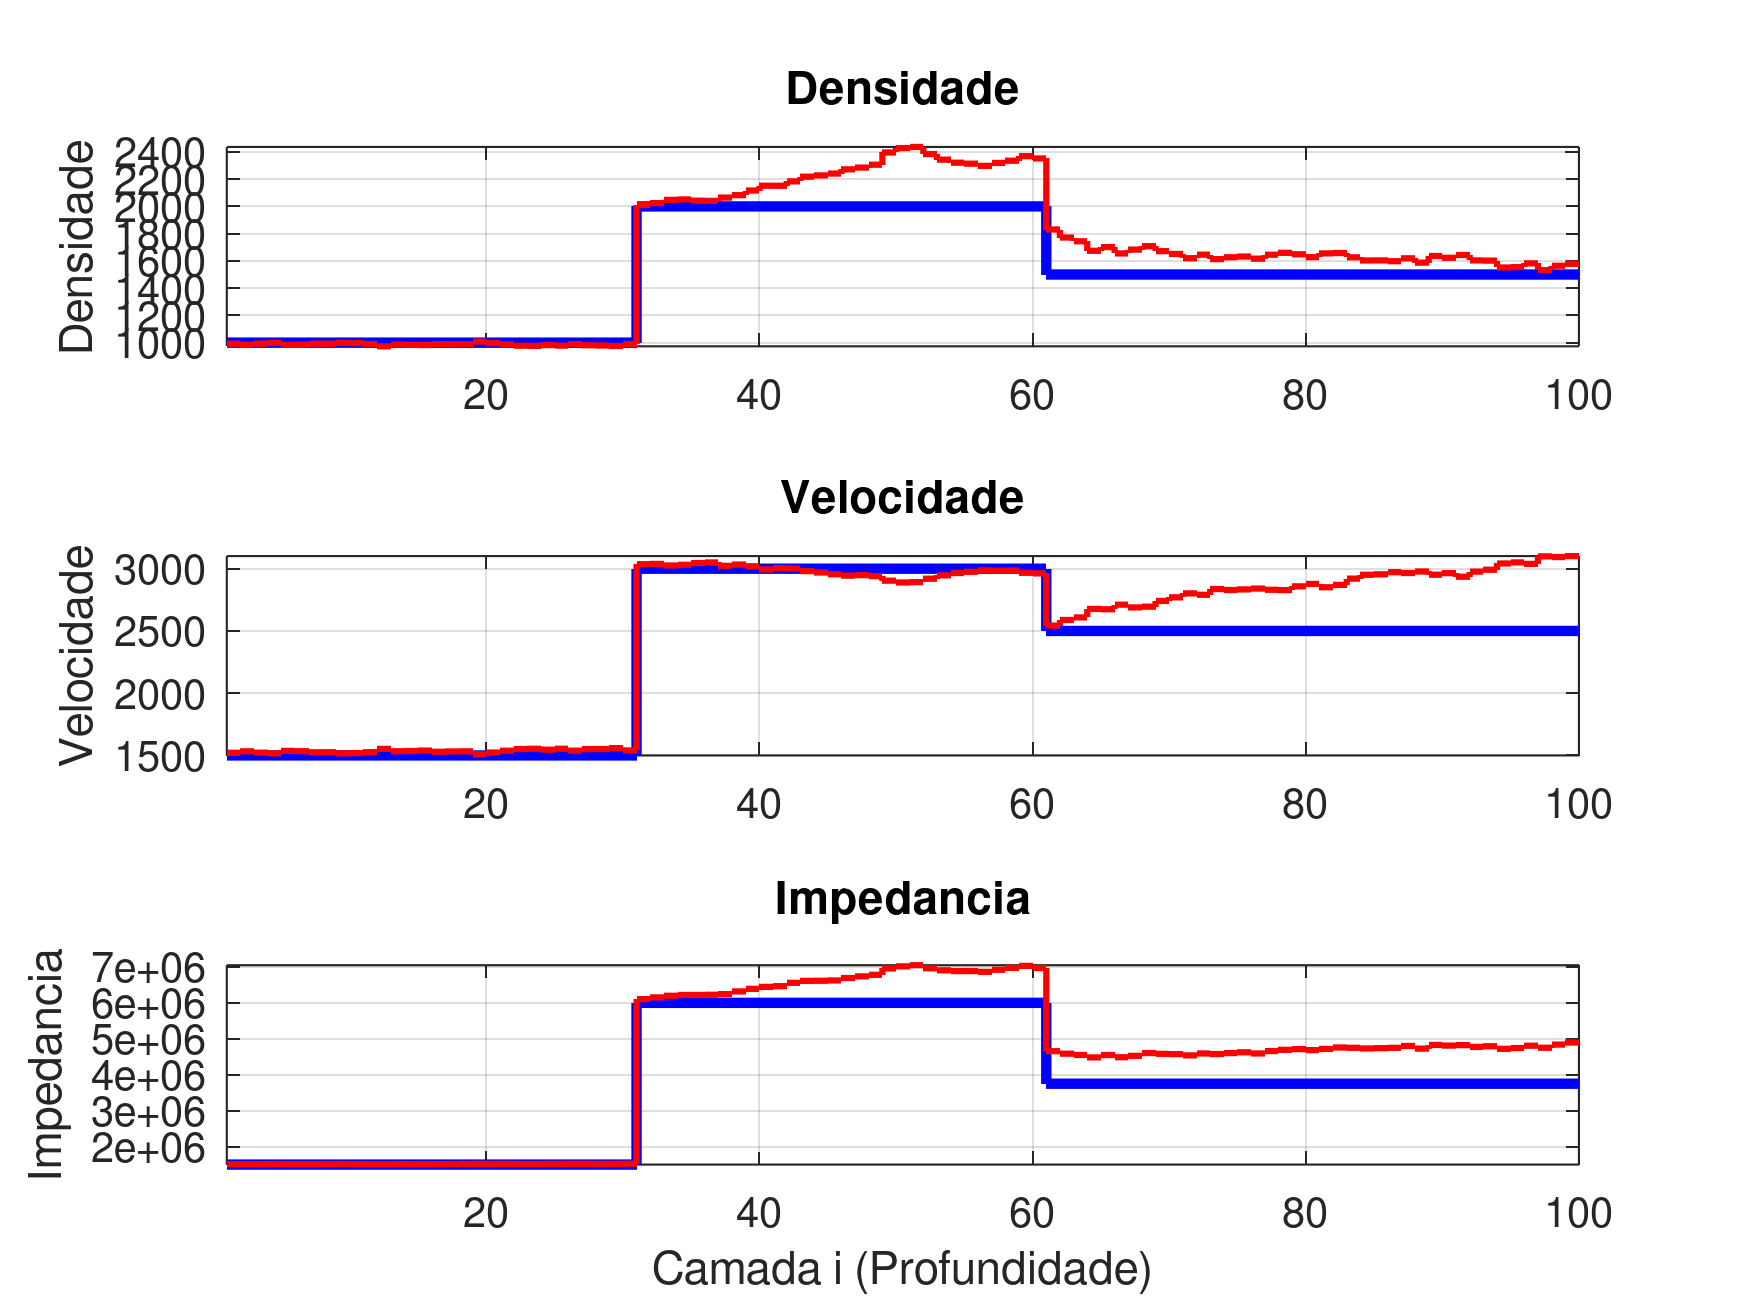
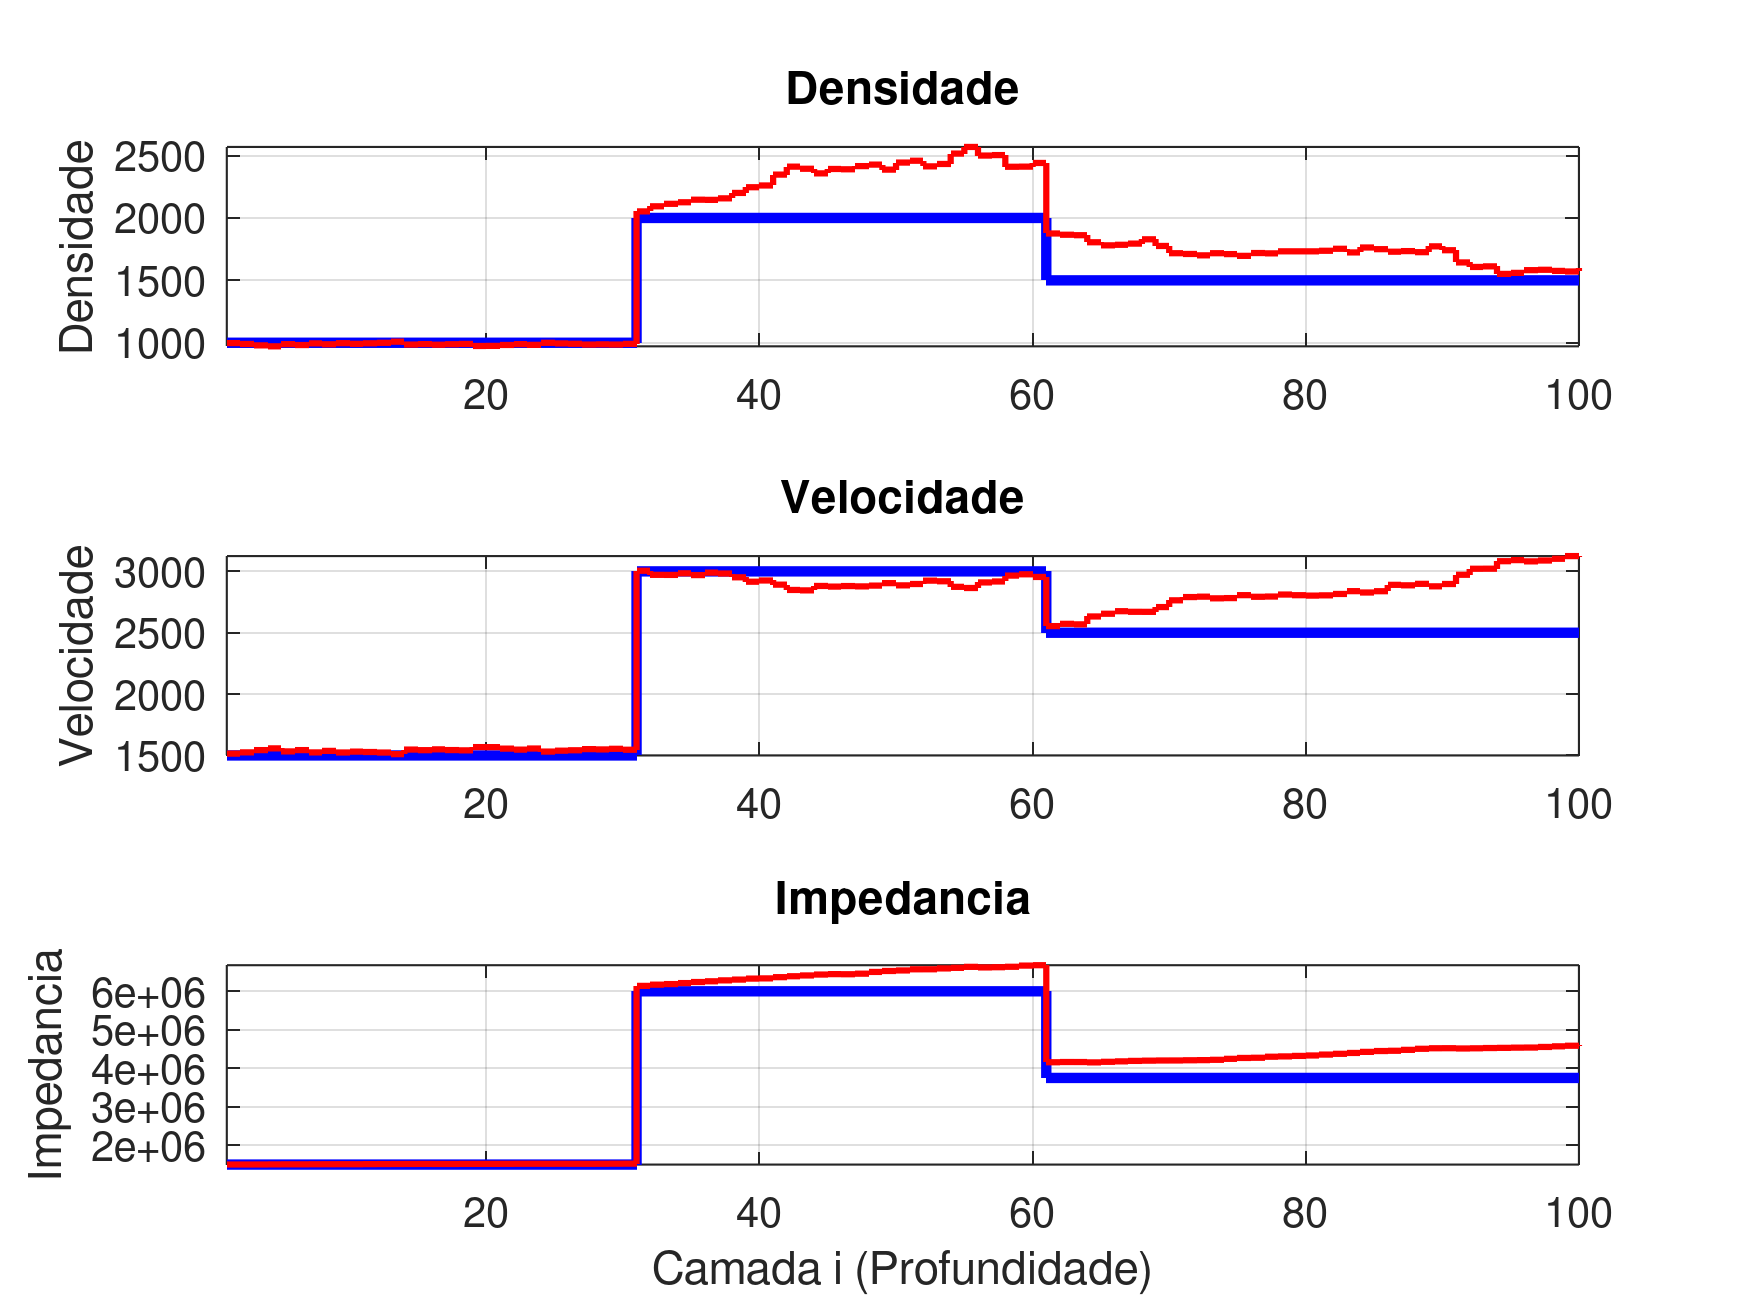
ajustes

diff --git a/CASE_2D/InvPosMediaSNR.m b/CASE_2D/InvPosMediaSNR.m
@@ -156,10 +156,11 @@ end
 
 disp('Tirando a Média Final');
 
-
 prec_final = mean(prec_tiros, 1);
 crec_final = mean(crec_tiros, 1);
-Zrec_final = prec_final .* crec_final; 
+
+Z_tiros = prec_tiros .* crec_tiros; 
+Zrec_final = mean(Z_tiros, 1); 
 
 fig = figure;
 subplot(3, 1, 1);
